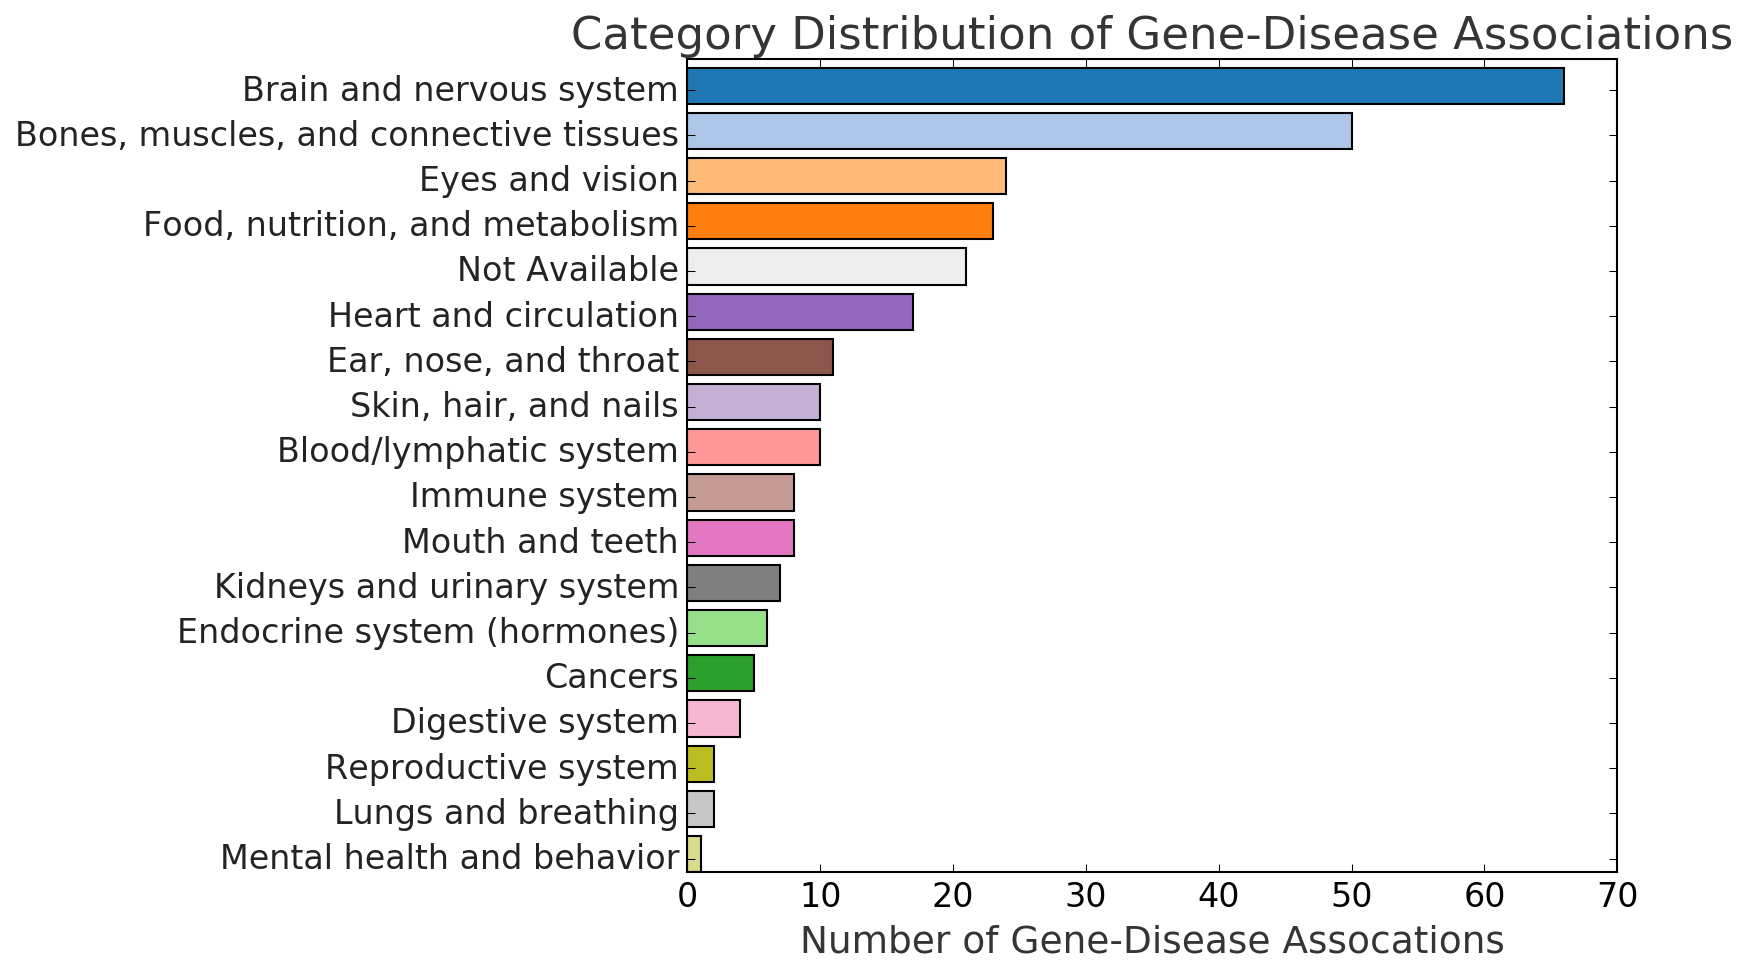
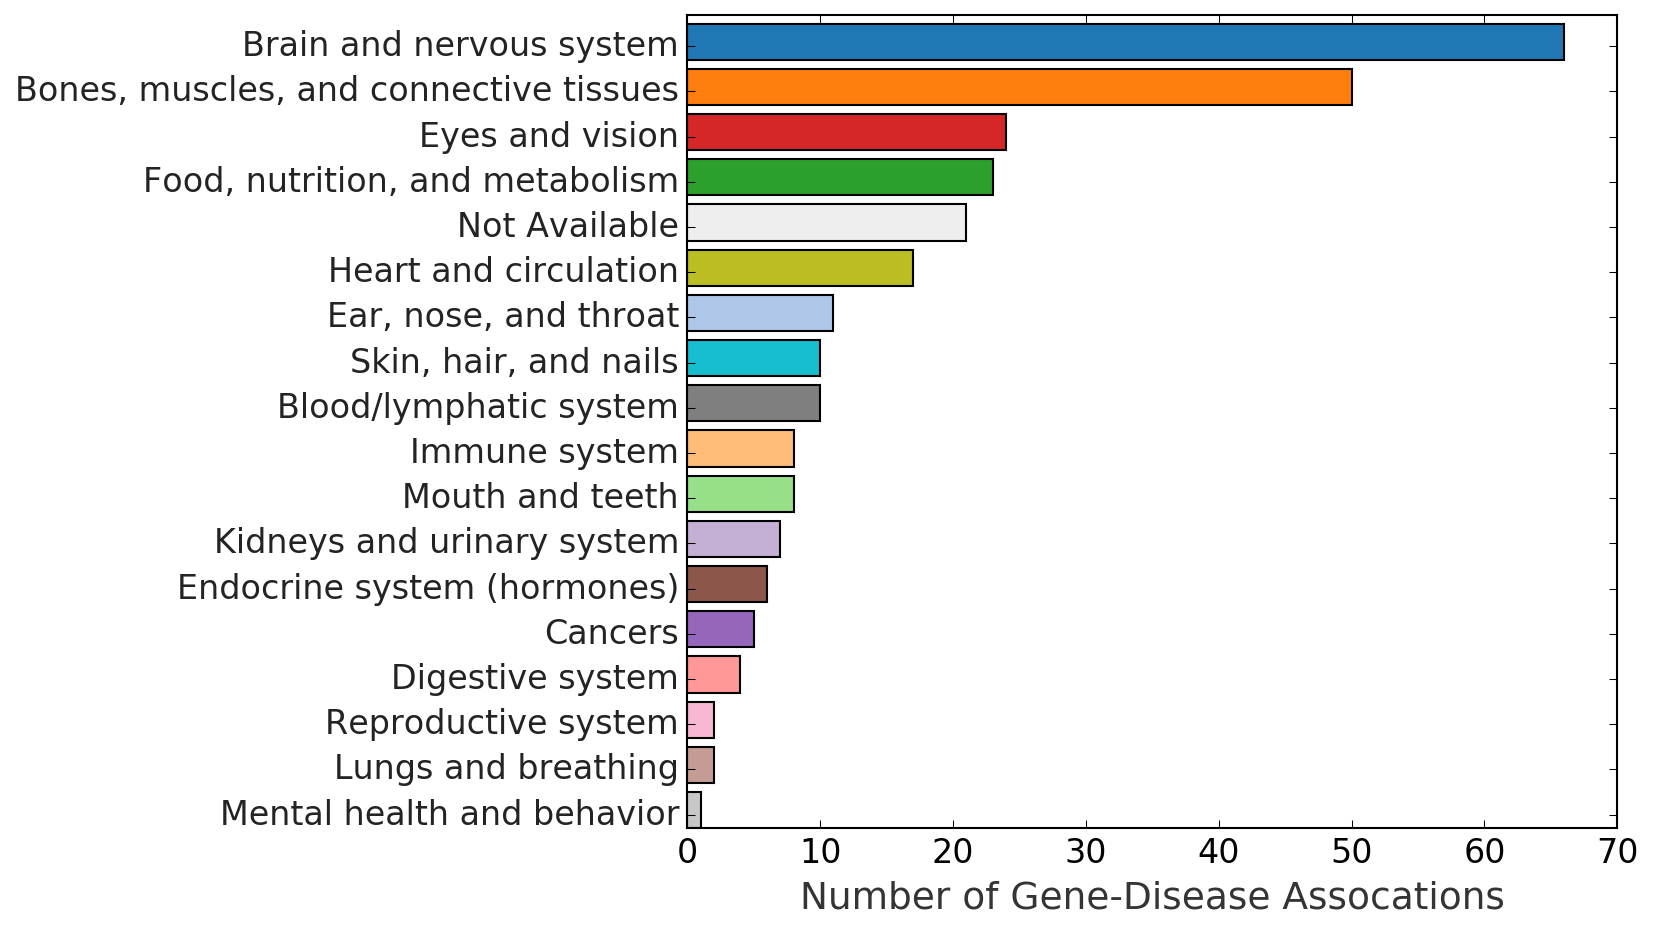
update layout and graphics

Changed region(s): [[0.0, 0.0, 1.0, 0.9968]]

diff --git a/templates/index.html b/templates/index.html
@@ -2,21 +2,22 @@
 <html>
   <head>
     <link rel="stylesheet" href="http://cdn.pydata.org/bokeh/release/bokeh-0.10.0.min.css" type="text/css" />
-    <link rel=stylesheet type=text/css href='{{ url_for('static',filename='style.css')}}'>
+    <link rel=stylesheet type="text/css" href='{{ url_for('static',filename='style.css')}}'>
+<link href='https://fonts.googleapis.com/css?family=Open+Sans:400,600,700' rel='stylesheet' type='text/css'>
     <script type="text/javascript" src="http://cdn.pydata.org/bokeh/release/bokeh-0.10.0.min.js"></script>
     {{ script | safe }}
   </head>
 
   <body>
     <div class="page">
-      <div class="header">
-      <h1 id="grad1" class="headertxt">Genetics of Human Disease</h1>
-      <h2 id="grad1" class="headertxt">A new data-centric approach to drug development</h2>
+      <div class="header" id="grad1">
+      <h1 id="grad1" class="headertop">Genetics of Human Disease</h1>
+      <h2 id="grad1" class="headerbtm">A new data-centric approach to drug development</h2>
       </div>
 	<div class="page-primary">
 	  <!-- <div height="100">&nbsp;</div> -->
       <h2 class="subheading">Advantages</h2>
-      <p>Accurately identifying the genetic source of a medical condition enables pharmaceutical researchers to more efficiently develop new therapies:</p>
+      <p>Measuring the strength of association between a medical condition and its genetic link will enable pharmaceutical companies to more efficiently develop new therapies.</p>
 
       <ol>
       <li>More accurate determination of the appropriate cellular pathway to target will improve the design and development of small molecule or biologic therapies that can counteract the effects of a disease.</li>
@@ -25,12 +26,16 @@
       <li>Gene-editing technologies such as CRISPR-Cas9 currently show strong promise as an entirely new treatment approach. If a disease-causing gene can be identified, it may be possible to develop a gene therapy to treat the genetic source directly.</li>
       </ol><br>
       
-		<p align="center"><b>Measured therapeutic relevance of gene-disease associations</b></p>
+		<h3 class="caption">Measured therapeutic relevance of gene-disease associations</h3>
+		<p>The highest priority disease candidates are found in the bottom right side of the chart, with a high score and low number of genes.</p>
         <div class="bokeh">
         {{ div | safe }}
         </div>
-        
-		<p><b>The highest priority disease candidates would have a high score and low number of genes, i.e., <i>the bottom right side of the chart below</i></b>.</p>
+        <p>&nbsp;</p>
+        <h3 class="caption">Breakdown by disease area</h3>
+        <div class="mpl">
+        <img src="static/catdist.png">
+        </div>
         
 	  <h2 class="subheading">Data collection</h2>
       <p>Data is contributed primarily by academic researchers who share their results through a variety of public databases.</p>
@@ -54,14 +59,12 @@
       <!--<h2 class="subheading">Data visualization</h2>
       <p>The strength of association between a particular gene and medical condition is directly related to the promise of generating a successful therapy. Large and small pharmaceutical companies who have the expertise to rapidly generate drug candidates can optimize the direction of their R&D efforts.</p><br>-->
 
-      
-		<br><p align="center"><b>Breakdown by disease areas</b></p>
-        <div class="mpl">
-        <img src="static/catdist.png">
-        </div>
+    
         <p>&nbsp;</p>
         </div>
-        <h3 class="footertext" id="grad1">Last Updated: {{ updated }}</h3>
+          <div class="footer" id="grad1">
+          <h3 class="footertext" id="grad1">Last Updated: {{ updated }}</h3>
+          </div>
     </div>
   </body>
 </html>

diff --git a/static/style.css b/static/style.css
@@ -1,32 +1,33 @@
-body            { font-family: helvetica neue, sans-serif; background: White; 
+body            { font-family: '.SFNSDisplay-Regular', helvetica neue, sans-serif; background: White; 
 				  margin: 0px; }
 a, h1, h2       { color: #1f77b4; }
-h1, h2, h3      { font-family: 'Helvetica Neue', serif; color: #fff; margin: 0; 
-                  background-color: #1f77b4; }
+h1, h2          { color: #fff; margin: 0; background-color: #1f77b4; }
 h1              { font-size: 2.4em; border-bottom: 2px solid #ccc; 
 				  /* border-top-left-radius: 15px;
                   border-top-right-radius: 15px; */ }
-h2              { font-size: 1.6em; }
-h3				{ font-size: 1em; }
-li				{ font-size: 1.2em; margin: 12px;}
+h2              { font-family: 'Open Sans', sans-serif; font-size: 1.6em; }
+h3				{ font-size: 1.4em; }
+li				{ font-size: 1.2em; margin: 18px; }
 p				{ font-size: 1.2em; }
 img				{ max-width: 100%; }
 
-.header			{ border-bottom: 1px solid #ccc; }
-.headertxt		{ padding: 10px; }
+.header			{ border-bottom: 1px solid #ccc; /*height: 150px;*/ }
+.headertop		{ padding: 10px; padding-top: 25px; padding-bottom: 15px; }
+.headerbtm		{ padding: 10px; padding-top: 15px; padding-bottom: 25px; }
 .page           { margin: 0px; border: 0px solid #fff; padding: 0em; background: white; }
 .page-primary	{ padding: 20px; border: 0px solid #000; width: 90%; margin: auto; }
-.subheading		{ color: #444; background: #fff; padding-top: 48px; 
-				  font-size: 1.8em; /*padding-left: 12px;*/  }
+.subheading		{ color: #444; background: #fff; padding-top: 48px; font-size: 1.8em; /*padding-left: 12px;*/  }
+.caption		{ font-family: 'Open Sans', sans-serif; font-size: 1.6em; text-align: center; color: #444; }
 .bokeh			{ border: 1px solid #777; padding: 23px; text-align: left; }
 .mpl			{ border: 1px solid #777; padding: 23px; text-align: center; 
 				  max-width: 100%; margin: 0 auto; }
-.footer			{ height: 50px; border-top: 1px solid #ccc; }
+.footer			{ height: 100px; border-top: 1px solid #ccc; }
 .footertext		{ /* border-bottom-left-radius: 15px; border-bottom-right-radius: 15px; */
-				  text-align: center; vertical-align: center; line-height: 50px; }
+				  text-align: center; vertical-align: center; line-height: 50px; 
+				  color: #fff; }
 				  
-#grad1 {
-	height: 60px; text-indent: 10px;
+#grad1 { 
+	text-indent: 10px;
     background: #1f77b4; /* For browsers that do not support gradients */    
     background: -webkit-linear-gradient(left, #1f77b4 , #92c7ec); /* For Safari 5.1 to 6.0 */
     background: -o-linear-gradient(right, #1f77b4 , #92c7ec); /* For Opera 11.1 to 12.0 */

diff --git a/app.py b/app.py
@@ -30,8 +30,12 @@ def index():  #remember the function name does not need to match the URL
 				'#98df8a', '#d62728', '#ff9896', '#9467bd', '#c5b0d5',
 				'#8c564b', '#c49c94', '#e377c2', '#f7b6d2', '#7f7f7f',
 				'#c7c7c7', '#bcbd22', '#dbdb8d', '#17becf', '#9edae5']
+	colordark = colorseq[0::2]
+	colorlight = colorseq[1::2]
+	clrdrklt = colordark.copy()
+	clrdrklt.extend(colorlight)
 	uniqcat = dfall['category'].unique()
-	catclr = dict(zip(uniqcat.tolist(),colorseq[:len(uniqcat)]))
+	catclr = dict(zip(uniqcat.tolist(),clrdrklt[:len(uniqcat)]))
 	catclr['Not Available'] = '#eeeeee'
 
 	# Scatter points for better readability
@@ -65,7 +69,7 @@ def index():  #remember the function name does not need to match the URL
 	p.yaxis.axis_label_text_font = 'helvetica neue'
 
 
-	p.circle('x', 'y', size=20, fill_alpha=0.8, color=dfall['color'], source=source, line_width=2)
+	p.circle('x', 'y', size=20, fill_alpha=0.8, color=dfall['color'], source=source, line_width=1, line_color='#000000')
 	p.responsive = True
 
 	script, div = components(p)
